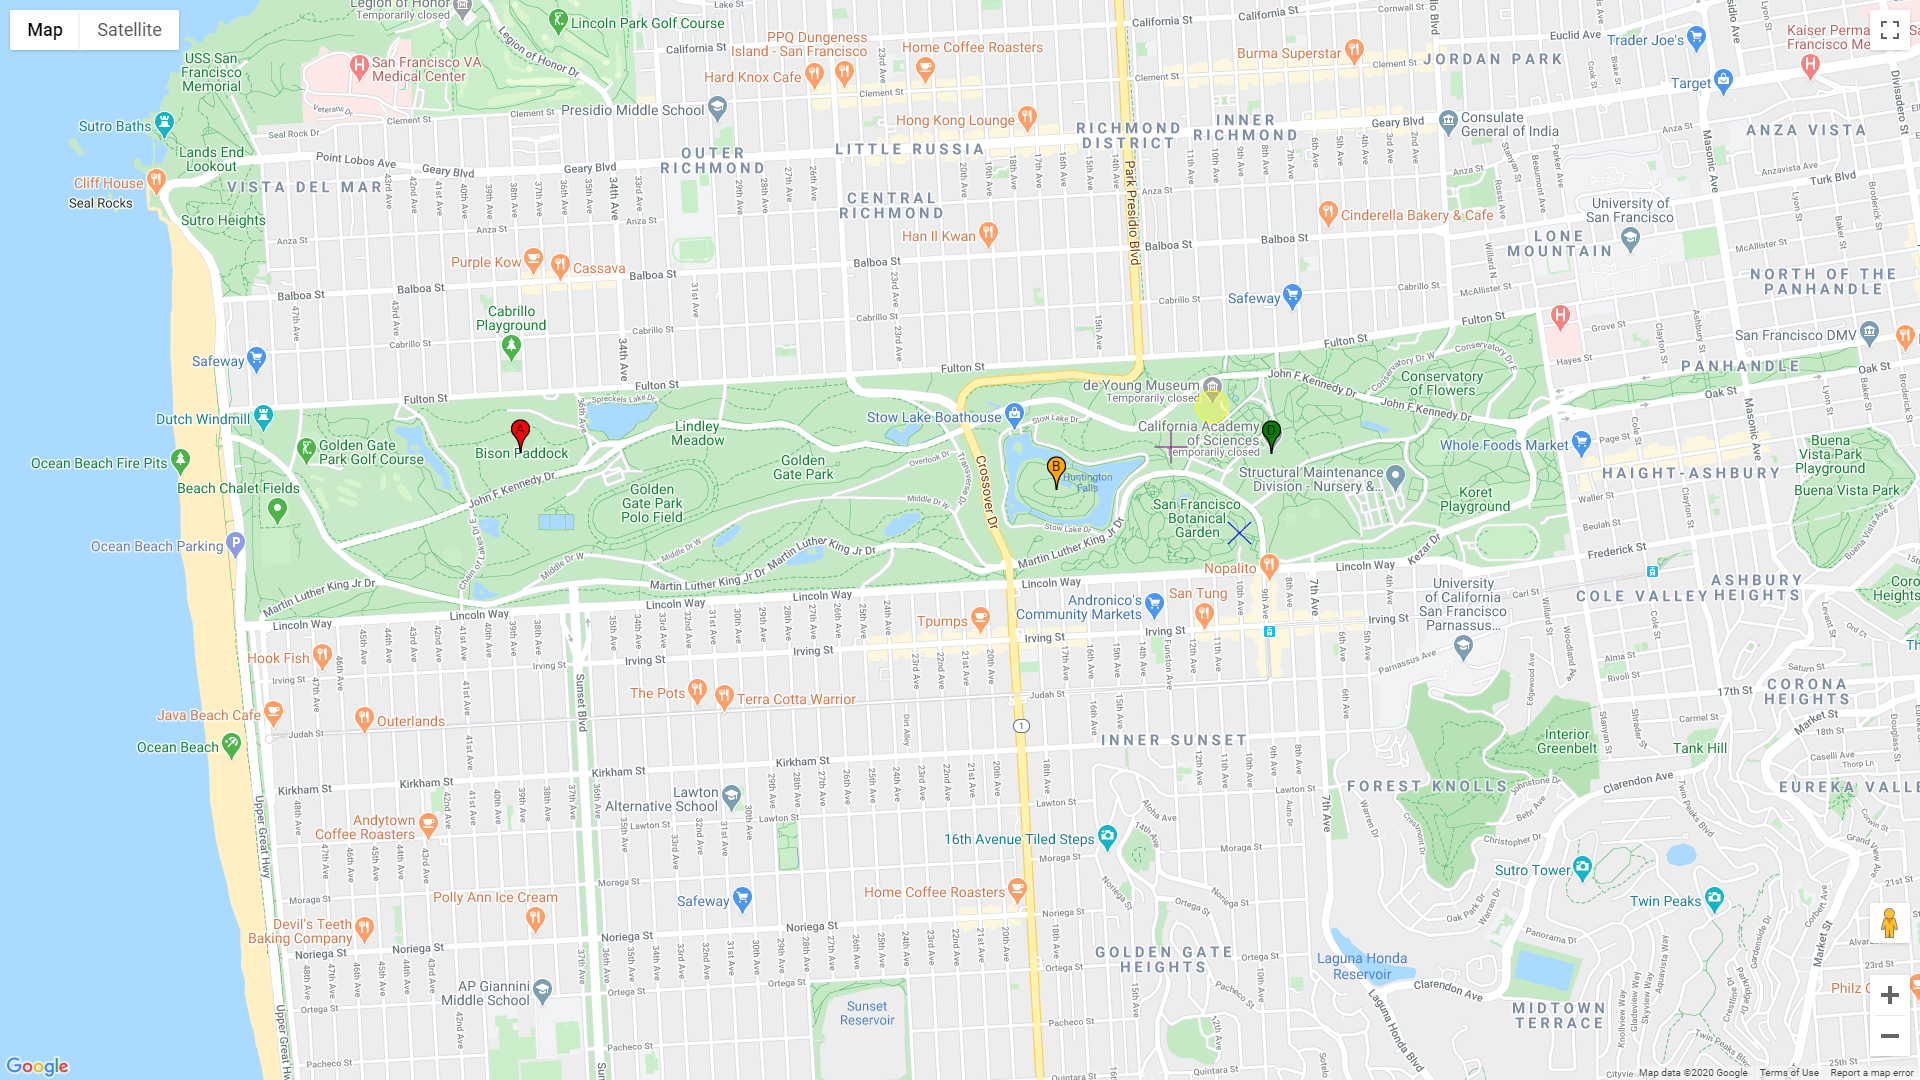
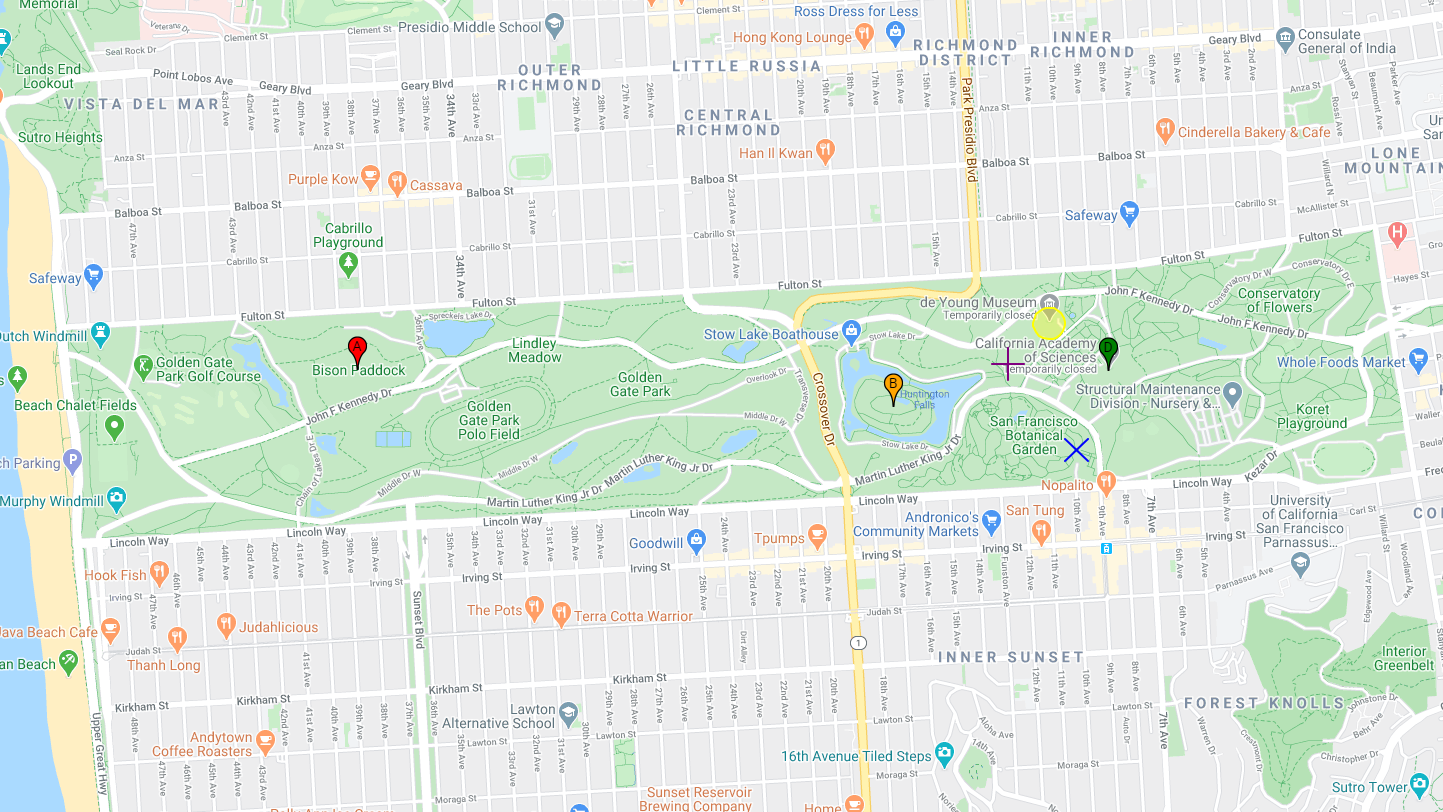
Make documentation examples clearer.

diff --git a/gmplot/gmplot.py b/gmplot/gmplot.py
@@ -506,7 +506,7 @@ class GoogleMapPlotter(object):
             gmap = gmplot.GoogleMapPlotter(37.766956, -122.438481, 13, apikey=apikey)
 
             gmap.text(37.793575, -122.464334, 'Presidio')
-            gmap.text(37.768442, -122.441472, 'Buena Vista Park', color='green')
+            gmap.text(37.766942, -122.441472, 'Buena Vista Park', color='blue')
 
             gmap.draw('map.html')
 
@@ -659,6 +659,7 @@ class GoogleMapPlotter(object):
                 *attractions,
                 color=['red', 'orange', 'yellow', 'green', 'blue', 'purple'],
                 s=60,
+                ew=2,
                 marker=[True, True, False, True, False, False],
                 symbol=[None, None, 'o', None, 'x', '+'],
                 title=['First', 'Second', None, 'Third', None, None],
